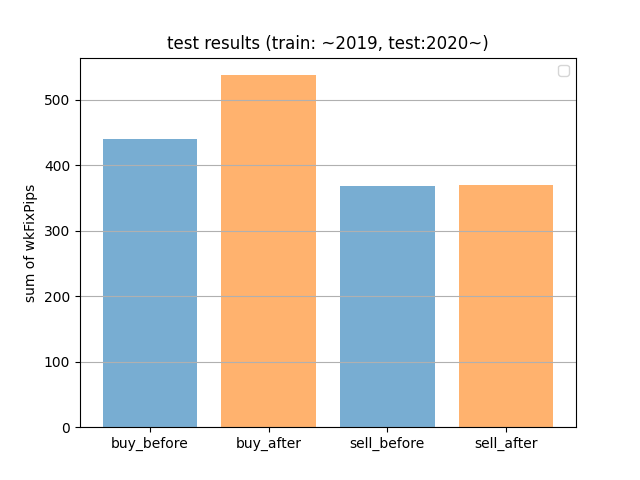
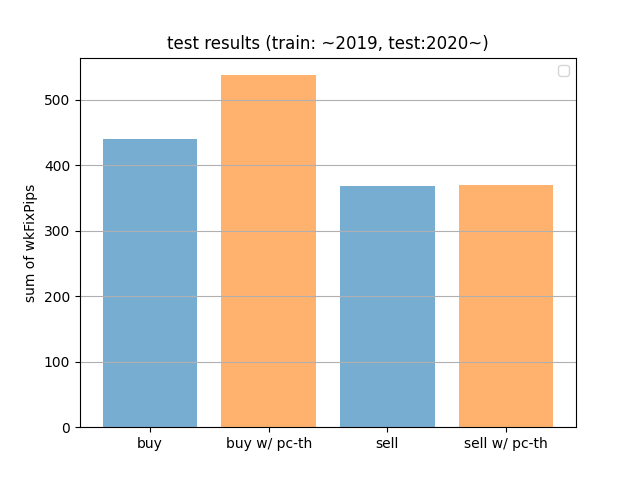
modify figure

diff --git a/check_overfit.py b/check_overfit.py
@@ -154,8 +154,9 @@ if __name__ == '__main__':
 
     plt.close('all')
     plt.figure()
-    plt.bar(['buy_before','buy_after','sell_before','sell_after'], [test_results[0,0],0,test_results[1,0],0],alpha=0.6)
-    plt.bar(['buy_before','buy_after','sell_before','sell_after'], [0,test_results[0,1],0,test_results[1,1]],alpha=0.6)
+    plt.bar(['buy','buy w/ pc-th','sell','sell w/ pc-th'], [test_results[0,0],0,test_results[1,0],0],alpha=0.6)
+    # plt.bar(['buy_before','buy_after','sell_before','sell_after'], [0,test_results[0,1],0,test_results[1,1]],alpha=0.6)
+    plt.bar(['buy','buy w/ pc-th','sell','sell w/ pc-th'], [0,test_results[0,1],0,test_results[1,1]],alpha=0.6)
     plt.grid(axis='y')
     plt.ylabel('sum of '+y_label)
     plt.legend()
